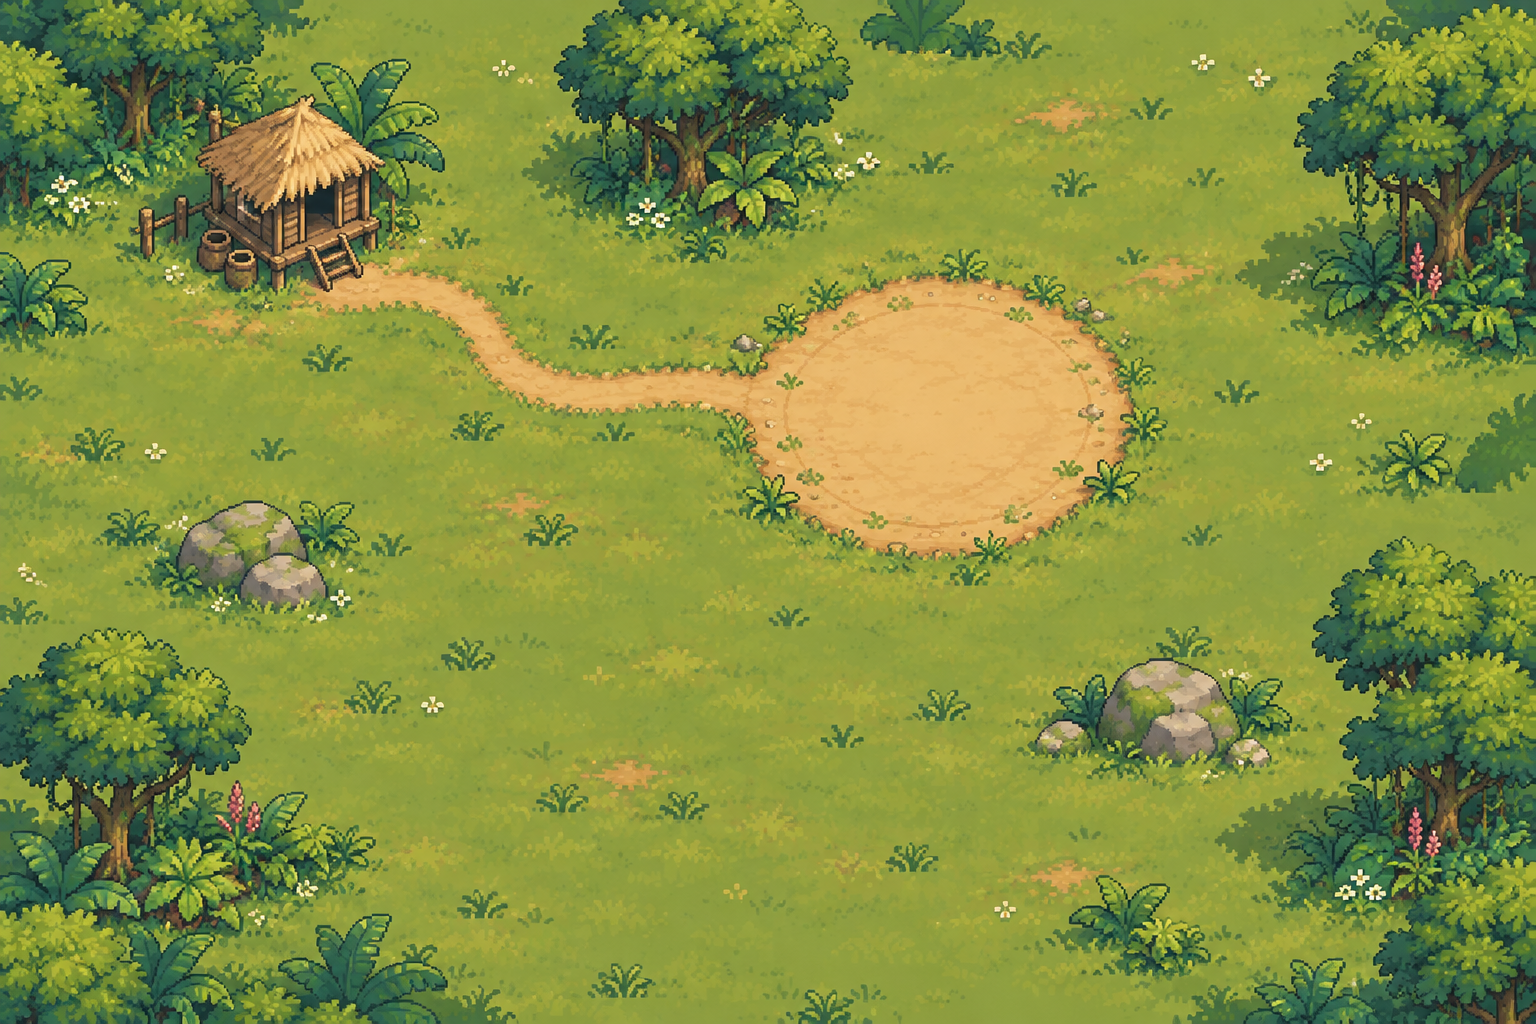
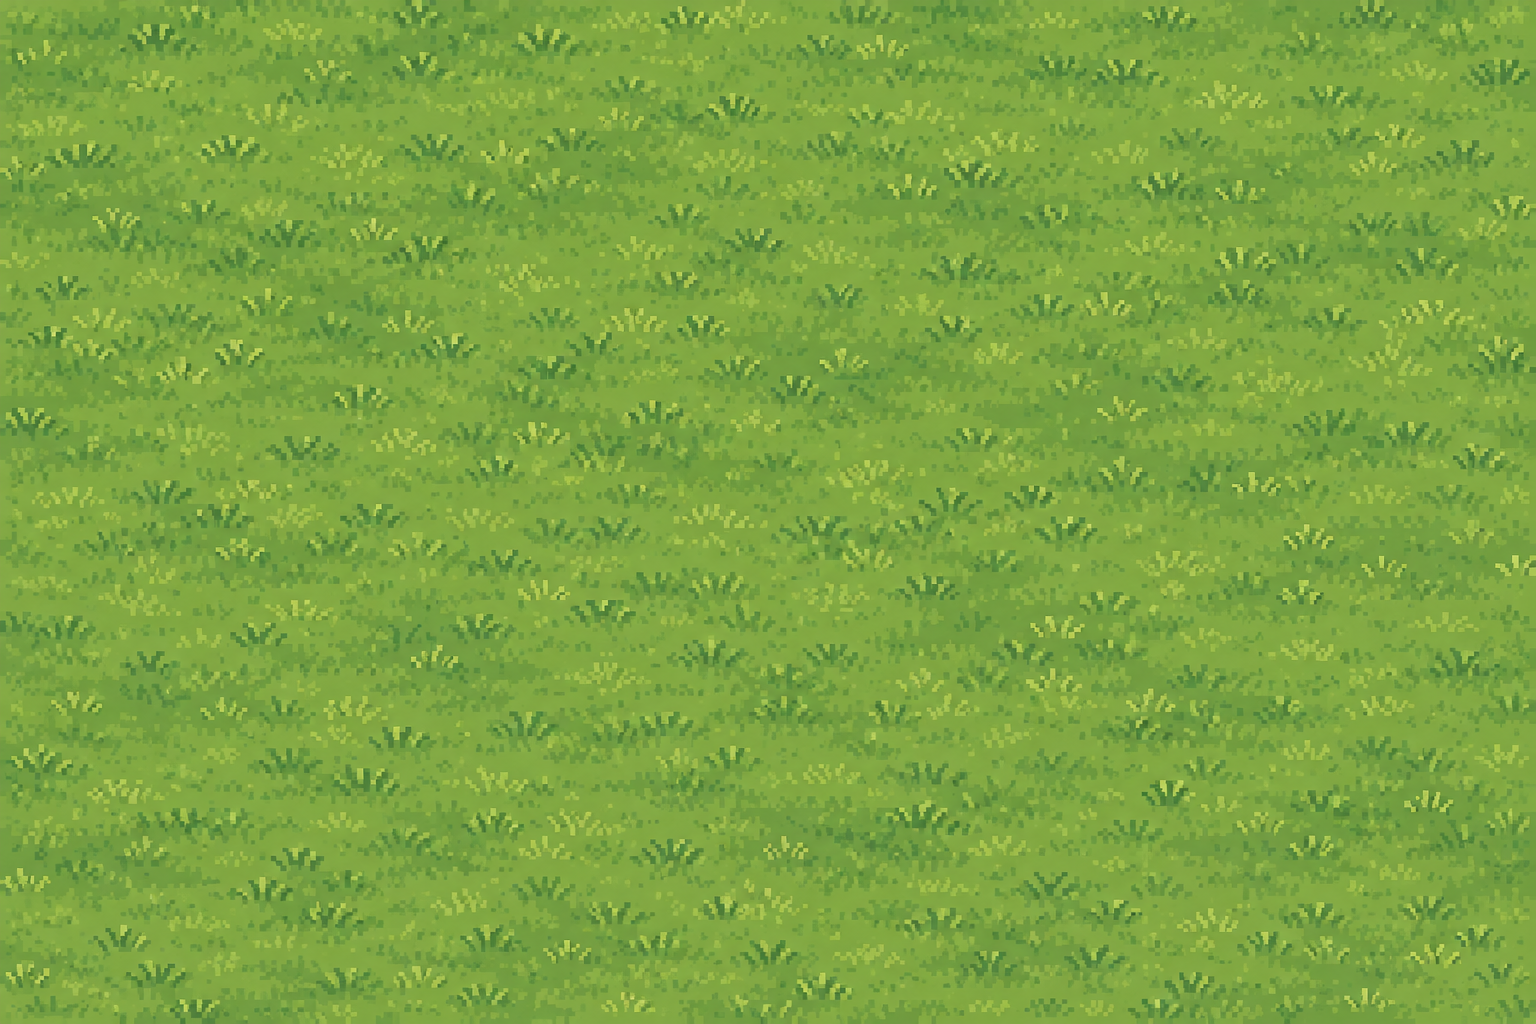
Simplifica mapa e melhora entrada da fase

diff --git a/assets/css/style.css b/assets/css/style.css
@@ -1420,47 +1420,61 @@ kbd {
     position: absolute;
     z-index: 3;
     display: grid;
-    width: clamp(40px, 5vw, 62px);
+    width: clamp(48px, 6vw, 72px);
     aspect-ratio: 1;
     padding: 0;
-    border: 4px solid #fff0b0;
-    border-radius: 50%;
+    border: 0;
     place-items: center;
-    color: #fff8d7;
-    background: #315f35;
-    box-shadow: 0 0 0 4px #253c25, 0 6px 0 rgba(25, 30, 17, 0.48);
+    color: #3a2617;
+    background: #f3bf48;
+    clip-path: polygon(25% 0, 75% 0, 100% 25%, 100% 75%, 75% 100%, 25% 100%, 0 75%, 0 25%);
+    filter: drop-shadow(0 6px 0 #49301c) drop-shadow(0 0 0 #49301c);
     font-family: var(--font-display);
     font-size: clamp(1rem, 2.4vw, 1.55rem);
     line-height: 1;
     transform: translate(-50%, -50%);
 }
 
-.world-level strong {
+.world-level::before {
+    content: "";
     position: absolute;
-    top: calc(100% + 8px);
-    left: 50%;
-    width: max-content;
-    max-width: 130px;
-    padding: 4px 7px;
-    border: 2px solid rgba(40, 31, 18, 0.78);
-    color: #fff5c7;
-    background: rgba(29, 57, 34, 0.92);
-    box-shadow: 2px 3px 0 rgba(25, 20, 12, 0.44);
-    font-family: var(--font-body);
-    font-size: 0.58rem;
-    line-height: 1.1;
-    transform: translateX(-50%);
+    inset: 7px;
+    border: 4px solid #fff0b0;
+    background:
+        linear-gradient(90deg, transparent 43%, #6f431f 44% 56%, transparent 57%),
+        linear-gradient(0deg, transparent 43%, #6f431f 44% 56%, transparent 57%),
+        #de9033;
+    clip-path: inherit;
 }
 
-.world-level--one { left: 61%; top: 42%; }
+.world-level > span {
+    position: relative;
+    z-index: 2;
+    display: grid;
+    width: 48%;
+    aspect-ratio: 1;
+    border: 2px solid #49301c;
+    place-items: center;
+    background: #fff0b0;
+    box-shadow: 2px 2px 0 #88552a;
+    transform: rotate(45deg);
+}
+
+.world-level > span b { font-weight: 700; transform: rotate(-45deg); }
+
+.world-level strong {
+    display: none;
+}
+
+.world-level--one { left: 42%; top: 50%; }
 .world-level--two { left: 51%; top: 58%; }
 .world-level--three { left: 77.5%; top: 38%; }
 .world-level--four { left: 89%; top: 15%; }
-.world-level.is-unlocked { animation: world-node-pulse 1.25s ease-in-out infinite alternate; }
-.world-level.is-unlocked:hover { filter: brightness(1.15); }
+.world-level.is-unlocked { animation: world-node-pulse 1.25s steps(2, end) infinite alternate; }
+.world-level.is-unlocked:hover { filter: brightness(1.1) drop-shadow(0 7px 0 #49301c); }
 .world-level.is-locked { border-color: #c9c3a7; color: #dbd3b6; background: #5e6557; filter: saturate(0.35); }
 .world-level.is-locked::after { content: "\1F512"; position: absolute; right: -7px; bottom: -5px; font-family: sans-serif; font-size: 0.72rem; }
-.world-level.is-near { outline: 5px solid rgba(255, 217, 102, 0.76); outline-offset: 5px; }
+.world-level.is-near { filter: drop-shadow(0 7px 0 #49301c) drop-shadow(0 0 10px #fff0a6); }
 
 .world-map-future {
     position: absolute;
@@ -1506,19 +1520,44 @@ kbd {
 .world-map-prompt {
     position: absolute;
     z-index: 8;
-    right: 12px;
-    bottom: 12px;
+    top: 50%;
+    left: calc(42% + clamp(48px, 6vw, 72px));
     display: grid;
-    min-width: min(235px, 42%);
+    min-width: min(225px, 38%);
     padding: 10px 12px;
-    border: 3px solid #352317;
-    color: #fff3c4;
-    background: rgba(22, 57, 35, 0.94);
-    box-shadow: inset 0 0 0 2px #6b9451, 4px 5px 0 rgba(26, 20, 12, 0.54);
+    border: 4px solid #3c2818;
+    color: #382719;
+    background:
+        repeating-linear-gradient(0deg, rgba(111, 67, 31, 0.08) 0 2px, transparent 2px 6px),
+        #ffe7a0;
+    box-shadow: inset 0 0 0 3px #d38b35, 5px 6px 0 rgba(50, 32, 19, 0.58);
+    opacity: 0;
+    pointer-events: none;
+    transform: translate(10px, -50%) scale(0.94);
+    transform-origin: left center;
+    transition: opacity 130ms steps(2, end), transform 130ms steps(2, end);
 }
 
-.world-map-prompt small { color: #f2ca67; font-size: 0.55rem; font-weight: 900; letter-spacing: 0.1em; text-transform: uppercase; }
-.world-map-prompt strong { margin: 1px 0 6px; font-family: var(--font-display); font-size: 1.05rem; }
+.world-map-prompt::before {
+    content: "";
+    position: absolute;
+    top: 50%;
+    right: 100%;
+    width: 15px;
+    height: 19px;
+    background: #3c2818;
+    clip-path: polygon(100% 0, 0 50%, 100% 100%);
+    transform: translateY(-50%);
+}
+
+.world-map-prompt.is-visible {
+    opacity: 1;
+    pointer-events: auto;
+    transform: translate(0, -50%) scale(1);
+}
+
+.world-map-prompt small { color: #9a4f25; font-size: 0.55rem; font-weight: 900; letter-spacing: 0.1em; text-transform: uppercase; }
+.world-map-prompt strong { margin: 1px 0 6px; color: #173f2a; font-family: var(--font-display); font-size: 1.05rem; }
 .world-map-prompt button {
     min-height: 34px;
     border: 2px solid #fff0a6;
@@ -1531,7 +1570,7 @@ kbd {
     text-transform: uppercase;
 }
 .world-map-prompt button:disabled { cursor: not-allowed; filter: grayscale(0.72); opacity: 0.65; }
-.world-map-prompt em { margin-top: 6px; color: #dce9c8; font-size: 0.58rem; font-style: normal; font-weight: 800; }
+.world-map-prompt em { margin-top: 6px; color: #69503a; font-size: 0.58rem; font-style: normal; font-weight: 800; }
 
 .world-map-pad {
     display: none;
@@ -1571,8 +1610,8 @@ kbd {
 .skin-saved.is-visible { opacity: 1; }
 
 @keyframes world-node-pulse {
-    from { box-shadow: 0 0 0 4px #253c25, 0 6px 0 rgba(25, 30, 17, 0.48), 0 0 0 rgba(255, 222, 105, 0); }
-    to { box-shadow: 0 0 0 4px #253c25, 0 6px 0 rgba(25, 30, 17, 0.48), 0 0 20px rgba(255, 222, 105, 0.9); }
+    from { filter: drop-shadow(0 5px 0 #49301c) drop-shadow(0 0 0 rgba(255, 240, 176, 0)); }
+    to { filter: drop-shadow(0 7px 0 #49301c) drop-shadow(0 0 8px rgba(255, 240, 176, 0.92)); }
 }
 
 .bestiary-list { display: grid; grid-template-columns: 1fr 1fr; gap: 8px; margin: 0; padding: 0; list-style: none; }
@@ -1986,7 +2025,7 @@ kbd {
     .world-level { width: clamp(36px, 10vw, 48px); border-width: 3px; }
     .world-level strong { display: none; }
     .world-map-frog { width: clamp(48px, 14vw, 66px); }
-    .world-map-prompt { right: 7px; bottom: 7px; min-width: 178px; padding: 7px; }
+    .world-map-prompt { top: 50%; right: auto; bottom: auto; left: calc(42% + 42px); min-width: 145px; max-width: 47%; padding: 7px; }
     .world-map-prompt strong { font-size: 0.82rem; }
     .world-map-prompt button { min-height: 30px; font-size: 0.56rem; }
     .world-map-prompt em { font-size: 0.5rem; }

diff --git a/index.html b/index.html
@@ -11,8 +11,8 @@
     <link rel="preload" as="image" href="assets/img/nuvem-pixel-flutuante-v1.png">
     <link rel="preload" as="image" href="assets/img/passaro-horizonte-sprites-v1.png">
     <link rel="preload" as="image" href="assets/img/mapa-mundo-sapinho-v1.png">
-    <link rel="stylesheet" href="assets/css/style.css?v=53">
-    <script src="assets/js/script.js?v=54" defer></script>
+    <link rel="stylesheet" href="assets/css/style.css?v=55">
+    <script src="assets/js/script.js?v=55" defer></script>
     <title>Sapo do Chapéu de Palha — Beta</title>
 </head>
 <body>
@@ -198,12 +198,12 @@
                             </div>
                             <div class="world-map" id="world-map" tabindex="0" aria-label="Mapa explorável da história. Use as setas para caminhar.">
                                 <button class="world-level world-level--one is-unlocked" type="button" data-world-level="0" aria-label="Fase 1, Rota da Manhã">
-                                    <span>1</span><strong>Rota da Manhã</strong>
+                                    <span><b>1</b></span><strong>Rota da Manhã</strong>
                                 </button>
                                 <div class="world-map-frog" id="world-map-frog" aria-hidden="true"></div>
                                 <div class="world-map-future" aria-label="Próximos mapas em construção"><span aria-hidden="true">⚒</span> Novos mapas em construção</div>
-                                <div class="world-map-prompt" id="world-map-prompt" aria-live="polite">
-                                    <small>Fase mais próxima</small>
+                                <div class="world-map-prompt" id="world-map-prompt" aria-live="polite" aria-hidden="true">
+                                    <small>Fase encontrada</small>
                                     <strong id="world-map-stage-name">Rota da Manhã</strong>
                                     <button id="story-map-button" type="button" disabled><span aria-hidden="true">▶</span> Entrar na fase</button>
                                     <em id="story-map-status">Preparando o mapa...</em>

diff --git a/assets/js/script.js b/assets/js/script.js
@@ -16,6 +16,7 @@ const storyMapButton = document.querySelector('#story-map-button');
 const storyMapStatus = document.querySelector('#story-map-status');
 const worldMap = document.querySelector('#world-map');
 const worldMapFrog = document.querySelector('#world-map-frog');
+const worldMapPrompt = document.querySelector('#world-map-prompt');
 const worldMapStageName = document.querySelector('#world-map-stage-name');
 const worldMapHelp = document.querySelector('#world-map-help');
 const worldLevelButtons = [...document.querySelectorAll('[data-world-level]')];
@@ -781,7 +782,7 @@ function setPlayingControls(enabled) {
 }
 
 const WORLD_LEVELS = [
-    { name: 'Rota da Manhã', x: 61, y: 42, unlocked: true },
+    { name: 'Rota da Manhã', x: 42, y: 50, unlocked: true },
 ];
 
 const worldMapState = {
@@ -818,6 +819,8 @@ function updateWorldMapProximity() {
     worldMapState.nearestLevel = nearestIndex;
     const level = WORLD_LEVELS[nearestIndex];
     const isNear = nearestDistance < 7.2;
+    worldMapPrompt.classList.toggle('is-visible', isNear);
+    worldMapPrompt.setAttribute('aria-hidden', String(!isNear));
     worldMapStageName.textContent = level.name;
     storyMapButton.disabled = !worldMapState.ready || !isNear || !level.unlocked;
 

diff --git a/DESIGN.md b/DESIGN.md
@@ -82,7 +82,7 @@ Desktop uses a restrained soft rectangle around the stage; the mobile stage reac
 
 All actions use native buttons with hover, active, focus-visible, disabled, and touch states. The overlay preserves one primary action and is reused for pause without resetting the current run. Mobile keeps both Jump and Tongue targets at least 60px tall. The tongue is a separate transparent overlay containing only the tongue, anchored by shared mouth coordinates and rendered behind the frog. Activating it temporarily swaps the runner to a same-scale, mouth-open pose, then returns to the current motion sheet. Captured flying insects lock to the exact hit point on the extended tongue, remain there during its held beat, follow the tongue geometry only when it retracts, and disappear at the mouth under a single bright swallowing accent. On the ground, the frog deliberately runs upright like a cartoon person; its professional eight-frame cycle follows contact, down, passing and up poses twice, with opposite arms and legs. A player-triggered jump changes to natural frog biomechanics and selects dedicated takeoff, rise, apex, fall and landing poses according to vertical velocity. All sheets preserve the same identity, scale, white muzzle, eye, nose and straw hat. Flying beetles are hostile and capturable: golden groups keep a compact flight line while teal-violet beetles traverse a broad readable lane from the upper sky to just above the track. Some teal-violet beetles use a triangular up-and-down route with a restrained horizontal drift, forming a visible zigzag that still leaves enough reaction time for jumping, ducking under or attacking with the tongue. Golden-brown bees are single capturable hunters: they approach in a high zigzag, display a bright 440ms targeting pulse, then commit to a fast diagonal sting aimed at the frog's previous position. The dive is fixed once launched, so jumping or landing remains a fair dodge, and obstacle spawning is delayed around the encounter. Ground beetles are black, wingless, fast four-frame obstacles that must be jumped and never react to the tongue. Score blocks reserve stable width to prevent movement. Compact mossy rocks, wooden wheels and ground beetles share one runtime obstacle system but keep distinct silhouettes, forgiving collision insets, speeds and point values. Static rocks move at exactly the same rate as the ground texture; wheels and ground beetles add visible locomotion. Moving moss platforms are non-damaging surfaces: the frog can land on their top, ride briefly and jump again. The complete route lasts 185 seconds, changes regions at fixed elapsed-time milestones and raises speed and spawn pressure gradually under capped limits so every obstacle remains avoidable.
 
-The opening navigation has four destinations: Play, Museum, Skins and Settings. Play leads through game mode selection and then an explorable top-down world map. The map is deliberately sparse: broad grass, one hut, a few tree groups and rocks, and one playable circular marker. The frog walks freely with keyboard, touch pad or tap-to-walk before entering the marker. "Rota da Manhã" is one complete continuous level containing all four internal regions; it must never be presented as four separate levels. Future maps are represented only by one quiet "em construção" notice, not by fake locked stage markers. Only Story Mode is playable. Competitive, Online, settings and medals clearly communicate their construction state. The Museum lists the five current creatures by name in a compact bestiary. Back navigation and Escape follow the visible menu hierarchy, while pause and results use a separate parchment panel. The tongue action has a strict three-second recharge after every strike; its button becomes temporarily unavailable and shows a small circular 3–2–1 second counter so touch and keyboard players receive the same clear timing feedback.
+The opening navigation has four destinations: Play, Museum, Skins and Settings. Play leads through game mode selection and then an explorable top-down world map. The map is intentionally empty and calm: a continuous field of softly varied pixel grass with no trees, rocks, huts, paths, water, structures or scenery props. The only landmark is one playable golden octagonal phase seal. The frog walks freely with keyboard, touch pad or tap-to-walk; a small parchment phase card stays hidden until the frog approaches the seal, then opens directly beside it with the phase name and entry action. "Rota da Manhã" is one complete continuous level containing all four internal regions; it must never be presented as four separate levels. Future maps are represented only by one quiet "em construção" notice, not by fake locked stage markers. Only Story Mode is playable. Competitive, Online, settings and medals clearly communicate their construction state. The Museum lists the five current creatures by name in a compact bestiary. Back navigation and Escape follow the visible menu hierarchy, while pause and results use a separate parchment panel. The tongue action has a strict three-second recharge after every strike; its button becomes temporarily unavailable and shows a small circular 3–2–1 second counter so touch and keyboard players receive the same clear timing feedback.
 
 The Skins destination is a working color workshop rather than a construction placeholder. It offers a live scene preview, four curated presets plus native color pickers for the frog body and tongue, a reset action, and device-local persistence. Recoloring targets only the original green body pixels or pink tongue pixels so the straw hat, eyes, cream muzzle, line art, shading and transparency remain intact. The selected body color applies consistently to menu art, overworld walker, run, crouch, jump and mouth-open gameplay sheets; the tongue color applies to both preview and live attack. Controls remain usable without relying on color alone and report when the choice has been saved.
 
@@ -126,7 +126,8 @@ Horizontal movement uses an actual bounded x-coordinate with keyboard A/D or Lef
 - Do keep static rocks locked to the ground scroll speed; movement faster than the ground requires a visible rolling or running animation.
 - Do keep all four regions in clear morning light and derive route progress from elapsed time.
 - Do present the four morning regions as sections of the single Rota da Manhã level, never as separate world-map stages.
-- Do keep the overworld sparse and readable, with exactly one playable level marker until a real future level exists.
+- Do keep the overworld as grass only, with no environmental props, and exactly one golden octagonal level seal until a real future level exists.
+- Do reveal the phase card beside the seal only while the frog is close enough to enter.
 - Do preserve hats, eyes, muzzle, outlines, shadows and alpha when recoloring the frog or tongue.
 - Do reduce decorative parallax when the player requests reduced motion.
 - Don't add decorative particles behind the runner; they resemble sprite corruption.
